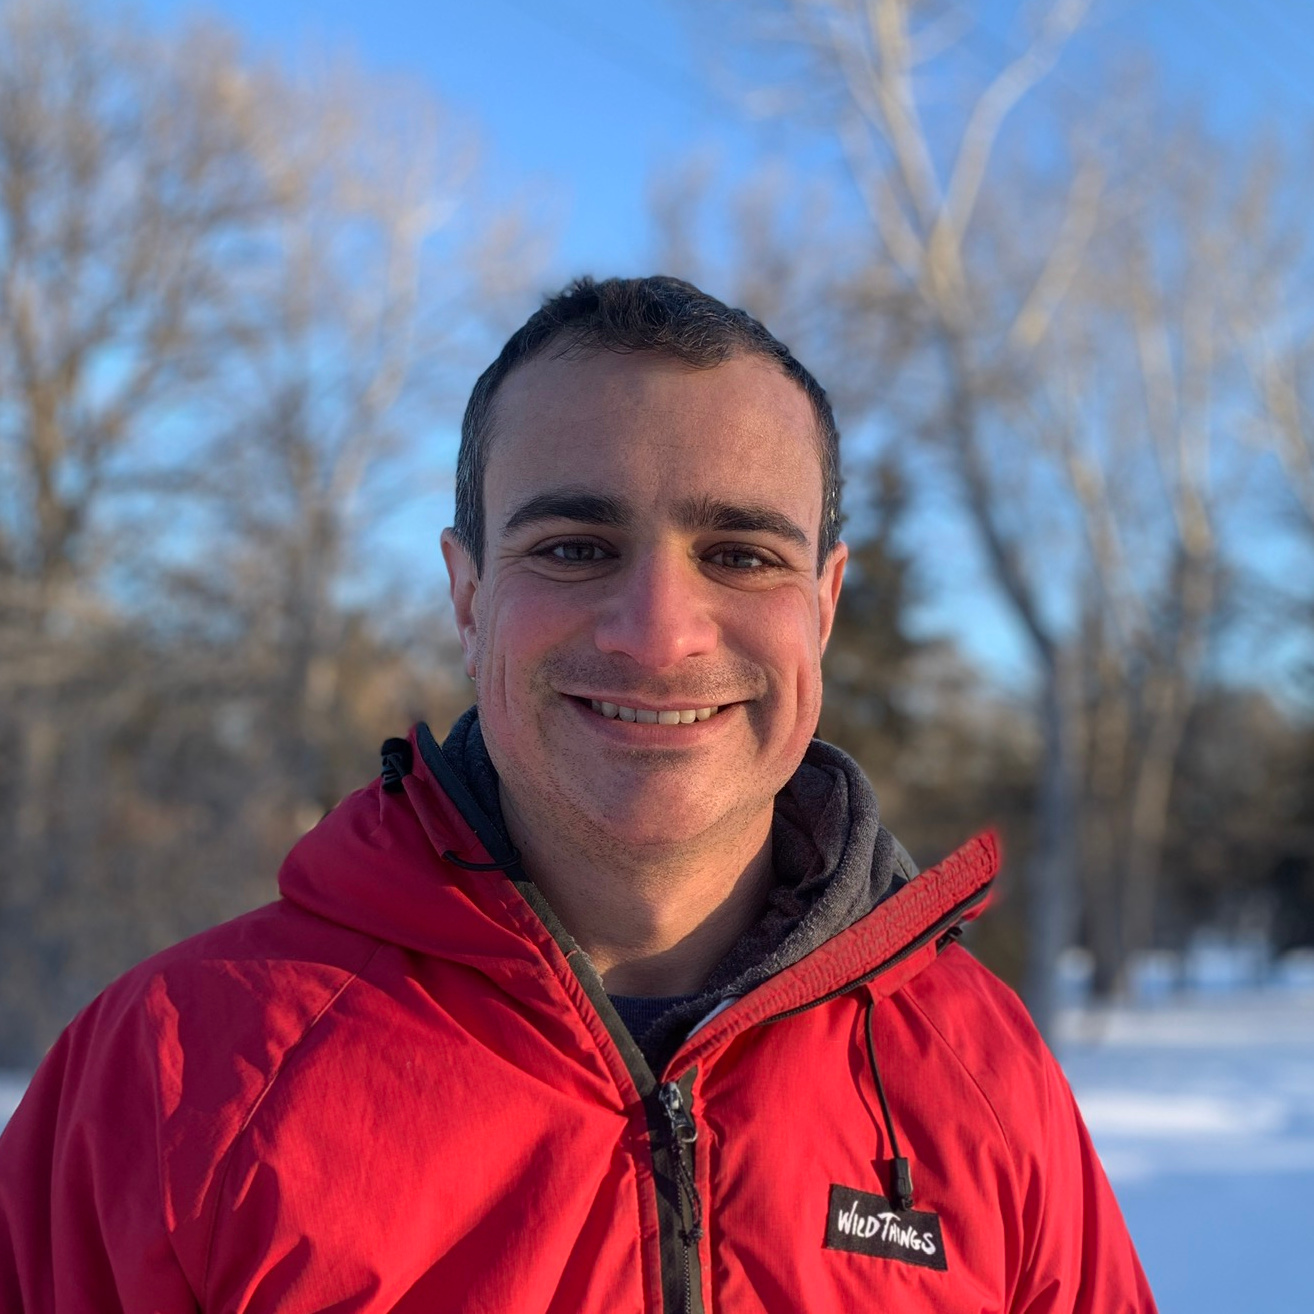
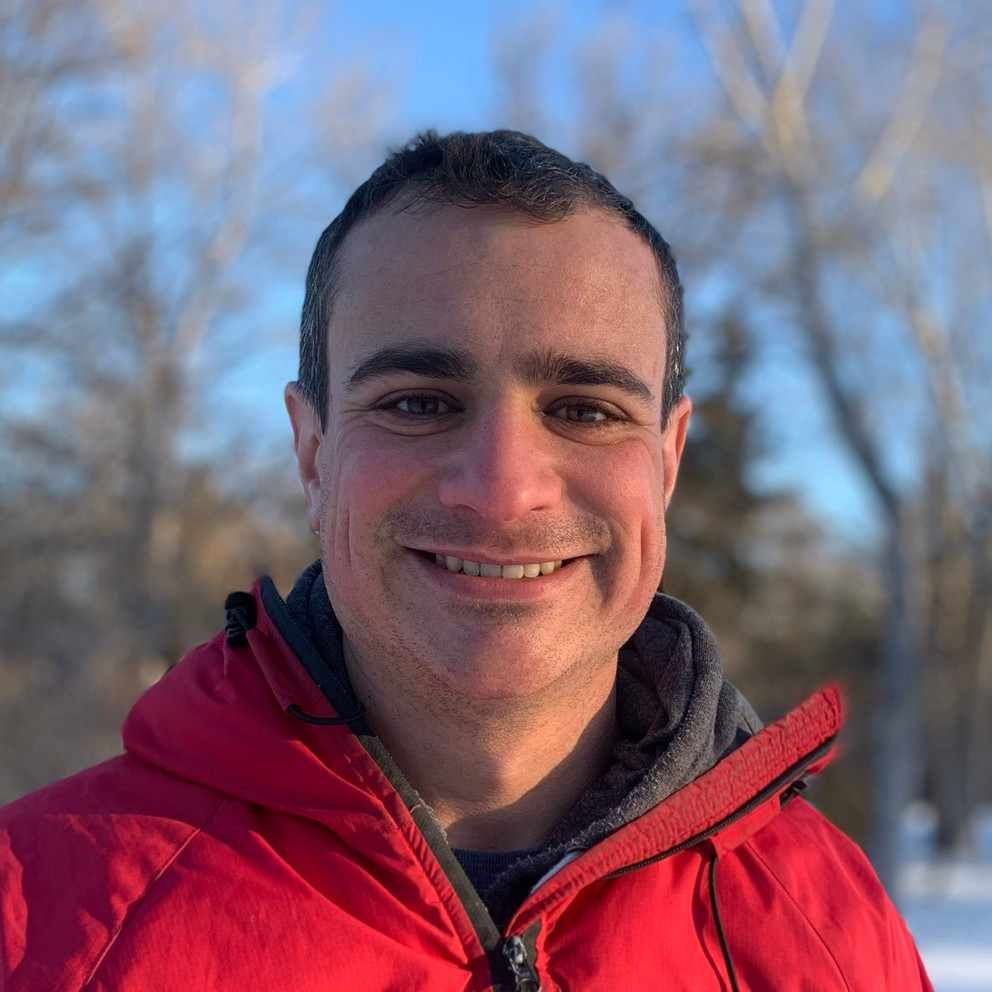
Retry

diff --git a/post/be-oi/index.html b/post/be-oi/index.html
@@ -717,7 +717,7 @@ The Project Beyond Epica is looking to drill an ice core containing a continuous
   <div class="media author-card" itemscope itemtype="http://schema.org/Person">
     
       
-      <img class="portrait mr-3" src="/authors/admin/avatar_hu8582d0b11778a8cde6f243d7c213ae97_137785_250x250_fill_q90_lanczos_center.jpg" itemprop="image" alt="Avatar">
+      <img class="portrait mr-3" src="/authors/admin/avatar_hu78d45e80b337a74b5febfb6a7664d18a_300186_250x250_fill_q90_lanczos_center.jpg" itemprop="image" alt="Avatar">
     
 
     <div class="media-body">

diff --git a/post/impdar/index.html b/post/impdar/index.html
@@ -704,7 +704,7 @@ A bit of background The St. Olaf Deep radar processor has a long history that I 
   <div class="media author-card" itemscope itemtype="http://schema.org/Person">
     
       
-      <img class="portrait mr-3" src="/authors/admin/avatar_hu8582d0b11778a8cde6f243d7c213ae97_137785_250x250_fill_q90_lanczos_center.jpg" itemprop="image" alt="Avatar">
+      <img class="portrait mr-3" src="/authors/admin/avatar_hu78d45e80b337a74b5febfb6a7664d18a_300186_250x250_fill_q90_lanczos_center.jpg" itemprop="image" alt="Avatar">
     
 
     <div class="media-body">

diff --git a/post/python_demo/index.html b/post/python_demo/index.html
@@ -702,7 +702,7 @@ I&rsquo;ll also introduce git, since I think it is probably more important for p
   <div class="media author-card" itemscope itemtype="http://schema.org/Person">
     
       
-      <img class="portrait mr-3" src="/authors/admin/avatar_hu8582d0b11778a8cde6f243d7c213ae97_137785_250x250_fill_q90_lanczos_center.jpg" itemprop="image" alt="Avatar">
+      <img class="portrait mr-3" src="/authors/admin/avatar_hu78d45e80b337a74b5febfb6a7664d18a_300186_250x250_fill_q90_lanczos_center.jpg" itemprop="image" alt="Avatar">
     
 
     <div class="media-body">

diff --git a/project/fabric/index.html b/project/fabric/index.html
@@ -833,7 +833,7 @@ Using the model, we can get a sense of what fabrics result from ice streams, sho
   <div class="media author-card" itemscope itemtype="http://schema.org/Person">
     
       
-      <img class="portrait mr-3" src="/authors/admin/avatar_hu8582d0b11778a8cde6f243d7c213ae97_137785_250x250_fill_q90_lanczos_center.jpg" itemprop="image" alt="Avatar">
+      <img class="portrait mr-3" src="/authors/admin/avatar_hu78d45e80b337a74b5febfb6a7664d18a_300186_250x250_fill_q90_lanczos_center.jpg" itemprop="image" alt="Avatar">
     
 
     <div class="media-body">

diff --git a/post/egrip/index.html b/post/egrip/index.html
@@ -659,7 +659,7 @@ If only I had an excuse to go back&hellip;</p>
   <div class="media author-card" itemscope itemtype="http://schema.org/Person">
     
       
-      <img class="portrait mr-3" src="/authors/admin/avatar_hu8582d0b11778a8cde6f243d7c213ae97_137785_250x250_fill_q90_lanczos_center.jpg" itemprop="image" alt="Avatar">
+      <img class="portrait mr-3" src="/authors/admin/avatar_hu78d45e80b337a74b5febfb6a7664d18a_300186_250x250_fill_q90_lanczos_center.jpg" itemprop="image" alt="Avatar">
     
 
     <div class="media-body">

diff --git a/project/muller_proj/index.html b/project/muller_proj/index.html
@@ -766,7 +766,7 @@ More to come on this&hellip;</p>
   <div class="media author-card" itemscope itemtype="http://schema.org/Person">
     
       
-      <img class="portrait mr-3" src="/authors/admin/avatar_hu8582d0b11778a8cde6f243d7c213ae97_137785_250x250_fill_q90_lanczos_center.jpg" itemprop="image" alt="Avatar">
+      <img class="portrait mr-3" src="/authors/admin/avatar_hu78d45e80b337a74b5febfb6a7664d18a_300186_250x250_fill_q90_lanczos_center.jpg" itemprop="image" alt="Avatar">
     
 
     <div class="media-body">

diff --git a/photos/south_pole/index.html b/photos/south_pole/index.html
@@ -1378,7 +1378,7 @@
   <div class="media author-card" itemscope itemtype="http://schema.org/Person">
     
       
-      <img class="portrait mr-3" src="/authors/admin/avatar_hu8582d0b11778a8cde6f243d7c213ae97_137785_250x250_fill_q90_lanczos_center.jpg" itemprop="image" alt="Avatar">
+      <img class="portrait mr-3" src="/authors/admin/avatar_hu78d45e80b337a74b5febfb6a7664d18a_300186_250x250_fill_q90_lanczos_center.jpg" itemprop="image" alt="Avatar">
     
 
     <div class="media-body">

diff --git a/h2/about/index.html b/h2/about/index.html
@@ -577,7 +577,7 @@
   <div class="media author-card" itemscope itemtype="http://schema.org/Person">
     
       
-      <img class="portrait mr-3" src="/authors/admin/avatar_hu8582d0b11778a8cde6f243d7c213ae97_137785_250x250_fill_q90_lanczos_center.jpg" itemprop="image" alt="Avatar">
+      <img class="portrait mr-3" src="/authors/admin/avatar_hu78d45e80b337a74b5febfb6a7664d18a_300186_250x250_fill_q90_lanczos_center.jpg" itemprop="image" alt="Avatar">
     
 
     <div class="media-body">

diff --git a/h2/contact/index.html b/h2/contact/index.html
@@ -577,7 +577,7 @@
   <div class="media author-card" itemscope itemtype="http://schema.org/Person">
     
       
-      <img class="portrait mr-3" src="/authors/admin/avatar_hu8582d0b11778a8cde6f243d7c213ae97_137785_250x250_fill_q90_lanczos_center.jpg" itemprop="image" alt="Avatar">
+      <img class="portrait mr-3" src="/authors/admin/avatar_hu78d45e80b337a74b5febfb6a7664d18a_300186_250x250_fill_q90_lanczos_center.jpg" itemprop="image" alt="Avatar">
     
 
     <div class="media-body">

diff --git a/h2/photos/index.html b/h2/photos/index.html
@@ -577,7 +577,7 @@
   <div class="media author-card" itemscope itemtype="http://schema.org/Person">
     
       
-      <img class="portrait mr-3" src="/authors/admin/avatar_hu8582d0b11778a8cde6f243d7c213ae97_137785_250x250_fill_q90_lanczos_center.jpg" itemprop="image" alt="Avatar">
+      <img class="portrait mr-3" src="/authors/admin/avatar_hu78d45e80b337a74b5febfb6a7664d18a_300186_250x250_fill_q90_lanczos_center.jpg" itemprop="image" alt="Avatar">
     
 
     <div class="media-body">

diff --git a/h2/posts/index.html b/h2/posts/index.html
@@ -577,7 +577,7 @@
   <div class="media author-card" itemscope itemtype="http://schema.org/Person">
     
       
-      <img class="portrait mr-3" src="/authors/admin/avatar_hu8582d0b11778a8cde6f243d7c213ae97_137785_250x250_fill_q90_lanczos_center.jpg" itemprop="image" alt="Avatar">
+      <img class="portrait mr-3" src="/authors/admin/avatar_hu78d45e80b337a74b5febfb6a7664d18a_300186_250x250_fill_q90_lanczos_center.jpg" itemprop="image" alt="Avatar">
     
 
     <div class="media-body">

diff --git a/h2/projects/index.html b/h2/projects/index.html
@@ -577,7 +577,7 @@
   <div class="media author-card" itemscope itemtype="http://schema.org/Person">
     
       
-      <img class="portrait mr-3" src="/authors/admin/avatar_hu8582d0b11778a8cde6f243d7c213ae97_137785_250x250_fill_q90_lanczos_center.jpg" itemprop="image" alt="Avatar">
+      <img class="portrait mr-3" src="/authors/admin/avatar_hu78d45e80b337a74b5febfb6a7664d18a_300186_250x250_fill_q90_lanczos_center.jpg" itemprop="image" alt="Avatar">
     
 
     <div class="media-body">
